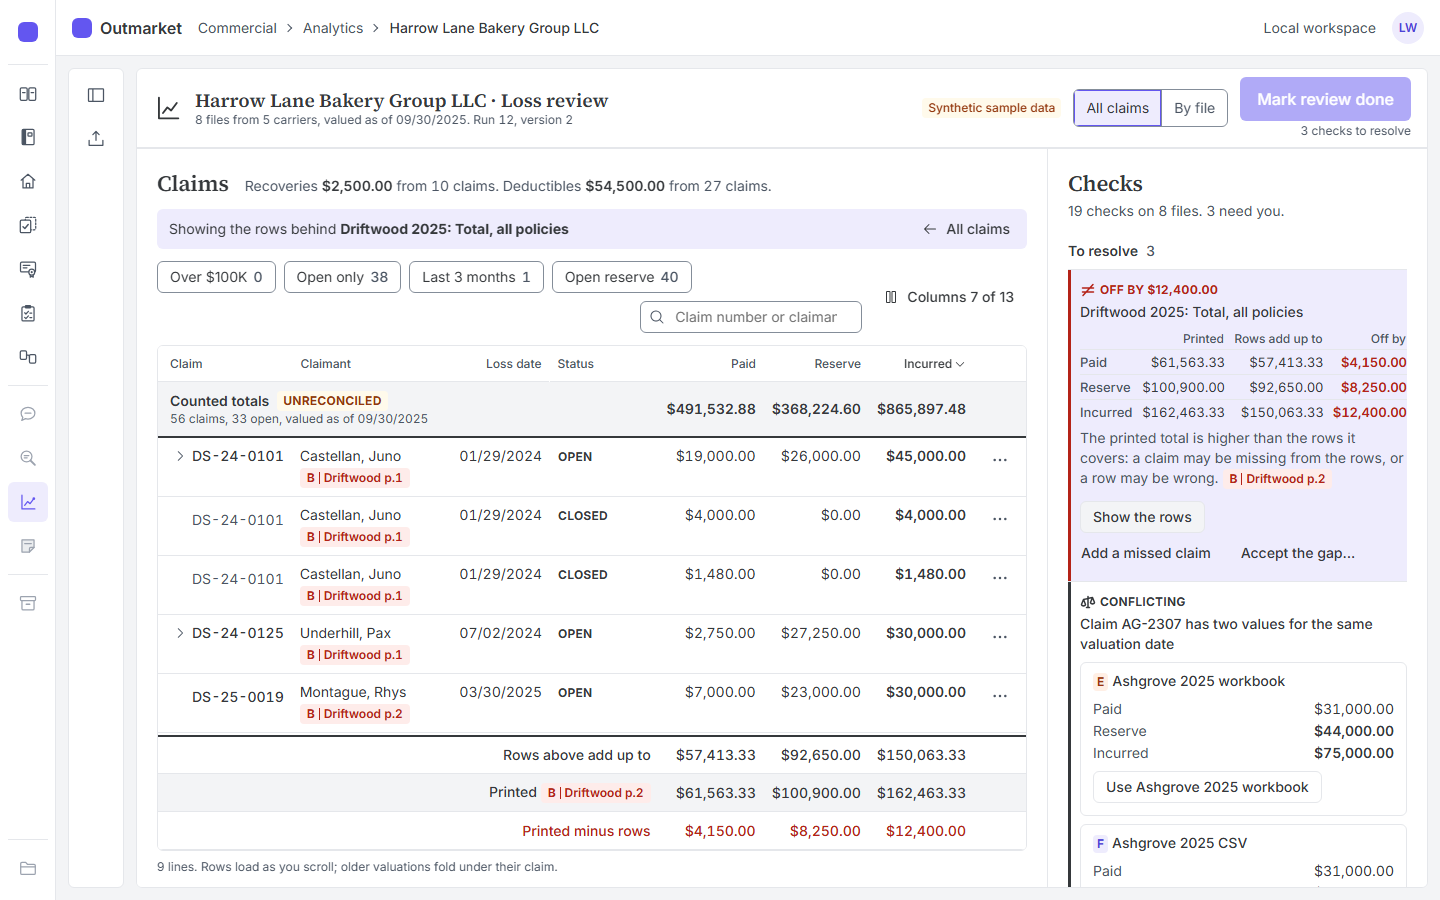
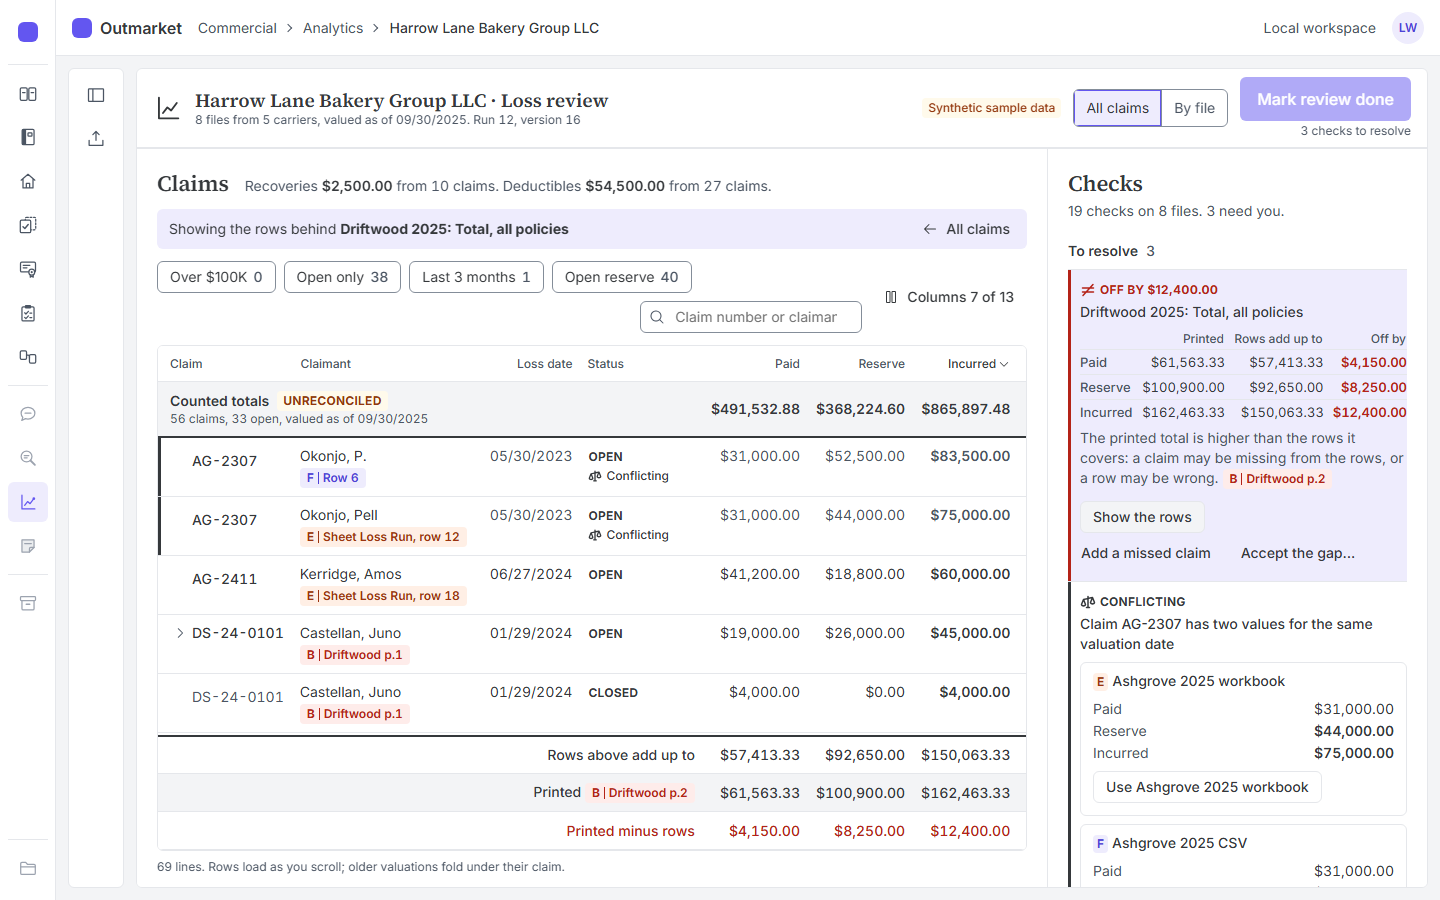
fix(loss-runs): source pane names the file for people and opens sheet pages readable at the cited row; rail counts in older specs

diff --git a/frontend/src/lossruns/lossUtil.ts b/frontend/src/lossruns/lossUtil.ts
@@ -6,7 +6,10 @@ import { API_BASE } from "../config";
  * A loss-run chip in the source viewer. PDF chips open the document's page; sheet chips open the rendered sheet page
  * (a one-page PDF from `sheet-pages/{n}`, R5) under its own cache key, with the row's box (D13).
  */
-export function chipTarget(chip: LossChip, scan = false): PdfTarget {
+/** A rendered sheet page is landscape 792pt of 8pt type: 1.5x reads like the printed sheet at 12px. */
+export const SHEET_ZOOM = 1.5;
+
+export function chipTarget(chip: LossChip, scan = false, name = "", text = chip.label): PdfTarget {
   const sheet = chip.kind === "sheet" && chip.url != null;
   const box = {
     passage_id: 0,
@@ -20,13 +23,18 @@ export function chipTarget(chip: LossChip, scan = false): PdfTarget {
     page_width: chip.page_width ?? 612,
     page_height: chip.page_height ?? 792,
   };
+  // Named for people (the chip's readable file name and short text, "Ashgrove 2025 CSV, Row 6"); a sheet page opens at
+  // a readable zoom with its row scrolled into view, and its caption names the row, not "page 1" of the render.
+  const who = name || chip.filename;
   return {
     documentId: sheet ? -(chip.document_id * 100_000 + (chip.page_no ?? 1)) : chip.document_id,
-    filename: sheet ? `${chip.filename}, ${chip.label}` : chip.filename,
+    filename: sheet ? `${who}, ${text}` : who,
     letter: chip.letter,
     page: box.page_no,
     chip: box,
     url: sheet ? `${chip.url!.startsWith("http") ? "" : API_BASE}${chip.url}` : undefined,
+    zoom: sheet ? SHEET_ZOOM : undefined,
+    caption: sheet ? `Source: ${who}, ${text}` : `Source: ${who}, page ${box.page_no}`,
   };
 }
 

diff --git a/frontend/e2e/loss-runs.spec.ts b/frontend/e2e/loss-runs.spec.ts
@@ -115,9 +115,20 @@ test("Review page: totals footing, checks per printed line, quick filters, a che
 
   // a sheet chip opens its rendered sheet page beside the register
   await page.getByRole("button", { name: /All claims/ }).first().click();
-  await page.locator(".lr-tablewrap .lr-chip").filter({ hasText: "Sheet" }).first().click();
+  // the CSV row chip (AG-2307 in the export): named for people, its only "sheet" is the file so it reads "Row 6"
+  const csvText = page.locator(".lr-tablewrap .lr-chip .lr-chip__text").filter({ hasText: /^Row 6$/ }).first();
+  await expect(csvText).toHaveText("Row 6"); // visible text; the file name is only in the tooltip and screen-reader name
+  await csvText.click();
   await expect(page.getByRole("button", { name: "Back to checks" })).toBeVisible();
+  await expect(page.locator(".lr-source__name")).toHaveText("Ashgrove 2025 CSV, Row 6");
+  await expect(page.locator(".pdf__caption")).toHaveText("Source: Ashgrove 2025 CSV, Row 6");
+  await expect(page.locator(".lr-source")).not.toContainText("lr_main");
+  // a sheet page opens readable (not Fit width) with the cited row's box scrolled into view
+  await expect(page.getByRole("button", { name: /Fit width/ })).toHaveAttribute("aria-pressed", "false");
   await expect(page.locator(".pdf__frame canvas")).toBeVisible();
+  const box = page.locator(".pdf-highlight");
+  await expect(box).toBeInViewport();
+  expect((await box.boundingBox())!.height).toBeGreaterThan(18); // the row is readable size, not a sliver
   await shot(page, "1440-04-source");
   await page.keyboard.press("Escape");
   await expect(page.locator(".lr-ledger")).toBeVisible();

diff --git a/frontend/src/pdf/PdfViewer.tsx b/frontend/src/pdf/PdfViewer.tsx
@@ -18,6 +18,10 @@ export interface PdfTarget {
   /** Loss runs (R5, D13): a spreadsheet's rendered sheet page is its own one-page PDF. `documentId` is then the
    * cache key of that page (lossruns/sheetTarget), not the document's id. */
   url?: string;
+  /** Opening zoom (default Fit width). A rendered sheet page is a landscape grid of small type: it opens readable. */
+  zoom?: number;
+  /** Caption under the page, replacing "Source <chip>, page <n>" (a sheet page names its row, not a page). */
+  caption?: string;
 }
 
 const docCache = new Map<number, Promise<PDFDocumentProxy>>();
@@ -44,7 +48,8 @@ export function PdfViewer({ target }: { target: PdfTarget }) {
   const doc = loaded && loaded.id === target.documentId ? loaded.doc : null;
   const [error, setError] = useState(false);
   const [page, setPage] = useState(target.page);
-  const [zoom, setZoom] = useState<number | "fit">("fit");
+  const [zoom, setZoom] = useState<number | "fit">(target.zoom ?? "fit");
+  useEffect(() => setZoom(target.zoom ?? "fit"), [target.documentId, target.zoom]);
   const [pageInput, setPageInput] = useState(String(target.page));
   const [attempt, setAttempt] = useState(0);
   const [rendering, setRendering] = useState(true);
@@ -228,7 +233,7 @@ export function PdfViewer({ target }: { target: PdfTarget }) {
       </div>
       {chip && (
         <p className="pdf__caption">
-          Source {chip.label}, page {chip.page_no}
+          {target.caption ?? `Source ${chip.label}, page ${chip.page_no}`}
           {!chip.verified && ". Read from scan, unverified: the whole page is marked"}
         </p>
       )}

diff --git a/frontend/src/lossruns/LossReviewView.tsx b/frontend/src/lossruns/LossReviewView.tsx
@@ -10,7 +10,7 @@ import { RunProgress } from "../run/RunProgress";
 import { Glyph, ReadingMark } from "../voice/marks";
 import type { PdfTarget } from "../pdf/PdfViewer";
 import { ByFile, type FileActions } from "./ByFile";
-import { CardWord, cardTitle, Checks, type CheckActions } from "./Checks";
+import { CardWord, cardTitle, Checks, chipText, type CheckActions } from "./Checks";
 import { ClaimsTable, type RowActions, type TableQuery } from "./ClaimsTable";
 import { checkCards, chipTarget, day, docName, groupOf, lossNewHref, parseCents, usd, type CheckCard } from "./lossUtil";
 import "./lossruns.css";
@@ -307,9 +307,11 @@ export function LossReviewView({ runId, viewport, onRunChanged }: { runId: numbe
     [toast, load],
   );
 
+  const reviewRef = useRef(review);
+  reviewRef.current = review;
   const openChip = useCallback((chip: LossChipData, scan: boolean) => {
     opener.current = document.activeElement as HTMLElement | null;
-    setPdf(chipTarget(chip, scan));
+    setPdf(chipTarget(chip, scan, docName(reviewRef.current, chip.document_id), chipText(chip)));
   }, []);
   const closeSource = useCallback(() => {
     setPdf(null);

diff --git a/frontend/e2e/journey.spec.ts b/frontend/e2e/journey.spec.ts
@@ -33,8 +33,8 @@ test("upload, run, review, chip, edit, chat, export", async ({ page }) => {
   // Slice 3b T6 (D7 allowed edit): Personal lines is live now, so its "coming in a later slice" check became this link check.
   await expect(page.getByRole("navigation", { name: "Main" }).getByRole("link", { name: "Personal lines" })).toHaveAttribute("href", "#/personal-lines");
   // 10 before slice 3b; Integrations (T5), Personal lines (T6) and Tasks (T7) are live now (D7 allowed edits, 9 -> 8 -> 7);
-  // slice 4 C11 makes Certificates live (7 -> 6).
-  await expect(page.locator(".rail__item.is-disabled")).toHaveCount(6);
+  // slice 4 C11 makes Certificates live (7 -> 6); slice 5a T8 makes Analytics live (6 -> 5).
+  await expect(page.locator(".rail__item.is-disabled")).toHaveCount(5);
   await shot(page, "1440-01-launch");
   await axe(page, "launch");
 

diff --git a/frontend/e2e/policy-check.spec.ts b/frontend/e2e/policy-check.spec.ts
@@ -57,8 +57,8 @@ test("policy check: rail entry, wizard with AMS, run, list", async ({ page }) =>
   const rail = page.getByRole("link", { name: "Policy check, new check" });
   await expect(rail).toHaveAttribute("href", "#/policy-check/new");
   // 10 before slice 3b; Integrations (T5), Personal lines (T6) and Tasks (T7) are live now (D7 allowed edits, 9 -> 8 -> 7);
-  // slice 4 C11 makes Certificates live (7 -> 6).
-  await expect(page.locator(".rail__item.is-disabled")).toHaveCount(6);
+  // slice 4 C11 makes Certificates live (7 -> 6); slice 5a T8 makes Analytics live (6 -> 5).
+  await expect(page.locator(".rail__item.is-disabled")).toHaveCount(5);
   await rail.click();
   await expect(page).toHaveURL(/#\/policy-check\/new/);
   await expect(rail).toHaveAttribute("aria-current", "page");
